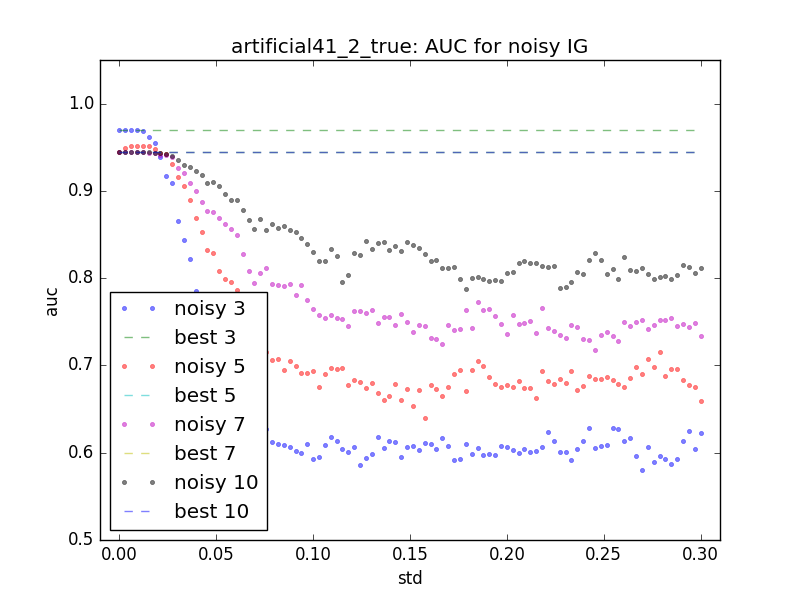
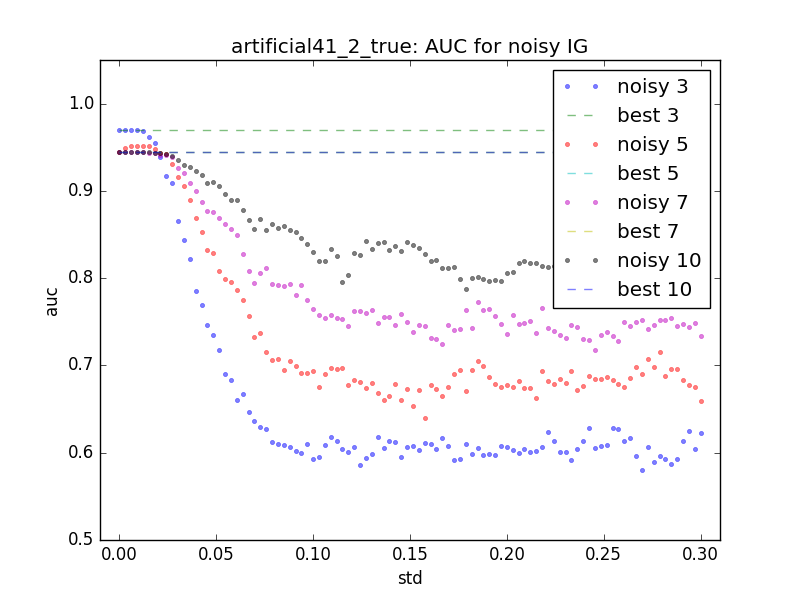
evaluated 3x2 and 4x2

Changed region(s): [[0.6875, 0.09, 0.9062, 0.54], [0.125, 0.48, 0.3438, 0.9]]

diff --git a/analysis_artificial4x2.py b/analysis_artificial4x2.py
@@ -6,7 +6,7 @@ from analysis_artificial import analysis_general, visualise_results, create_dn_n
 dataset_base = ['artificial40_2','artificial41_2','artificial42_2','artificial43_2','artificial44_2']
 # dataset_base = ['artificial43_2','artificial44_2']
 dataset_names = create_dn_names_from_base(dataset_base)
-dataset_names = ['artificial40_2_noisy','artificial41_2_noisy','artificial42_2_noisy',]
+# dataset_names = ['artificial40_2_noisy','artificial41_2_noisy','artificial42_2_noisy',]
 N_features = [3,5,7,10]
 
 def do_analysis():
@@ -19,5 +19,5 @@ def evaluate():
     # N: #data points
     # M: #parameters
 
-do_analysis()
-# evaluate()
+# do_analysis()
+evaluate()

diff --git a/analysis_artificial.py b/analysis_artificial.py
@@ -110,7 +110,7 @@ def visualise_results(dataset_name, N_features, fit_curve=False, start_lim=0, sh
             except:
                 print('no matching curve found')
 
-    plt.legend(loc=3)
+    plt.legend(loc=1)
     plt.title('{}: AUC for noisy IG'.format(dataset_name))
     plt.xlim([-.01, 0.31])
     plt.ylim([0.5, 1.05])
